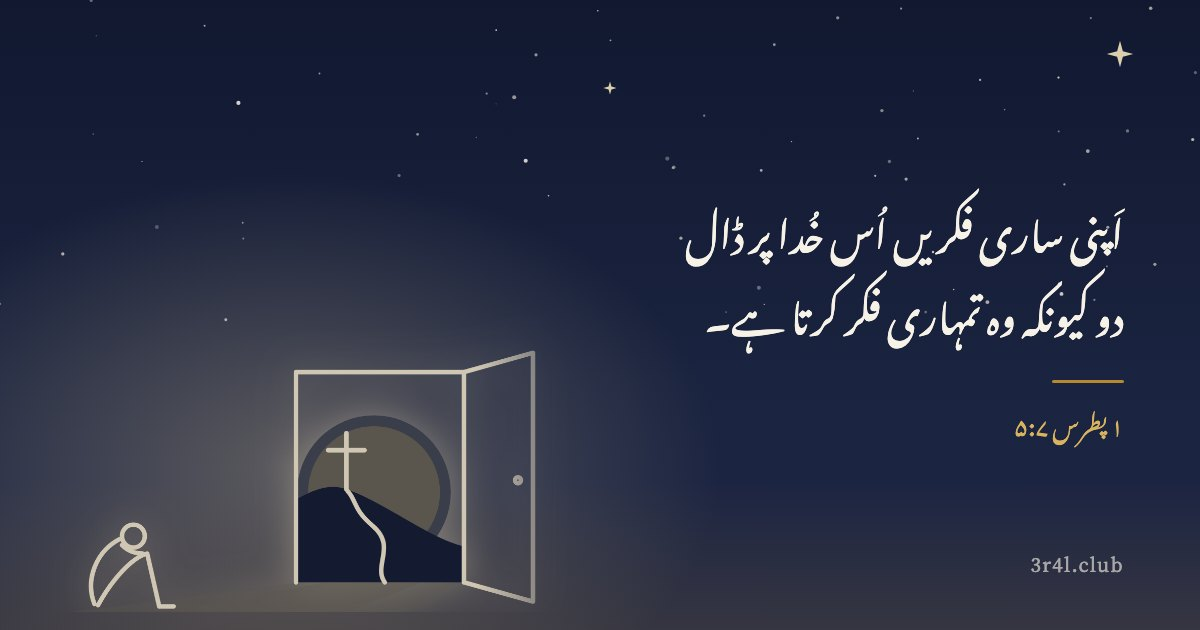
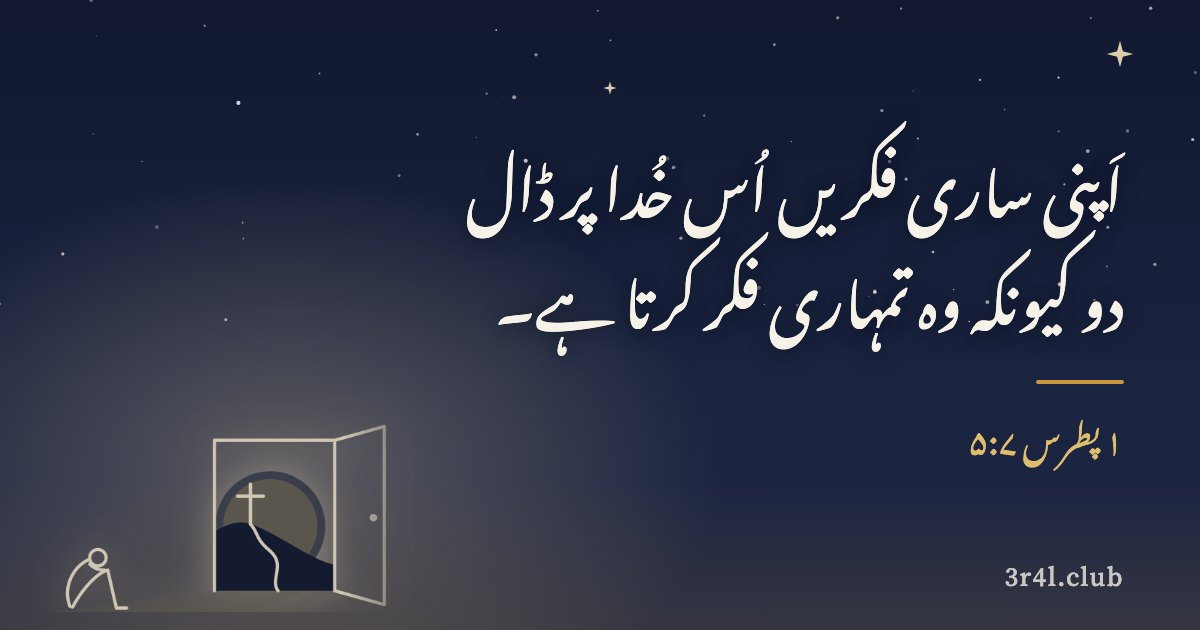
Link pictures readable on a phone: the home carries "A Blessing from the Lord's Prayer" alone; every other picture one short line of its verse in type sized to fill the picture (a phone shows it at about a third); /story/ (Psalm 107:2) and /testimony/ (Psalm 66:16) get their own in all three tongues
Claude-Session: https://claude.ai/code/session_013opyYkjdNn4uvxvqHhujKk

diff --git a/docs/ur/story/index.html b/docs/ur/story/index.html
@@ -7,7 +7,7 @@
 <meta name="description" content="یہ کیسے شروع ہوا">
 <meta property="og:title" content="یہ کیسے شروع ہوا">
 <meta property="og:description" content="یہ کیسے شروع ہوا">
-<meta property="og:image" content="https://3r4l.club/share/home-ur.jpg">
+<meta property="og:image" content="https://3r4l.club/share/story-ur.jpg">
 <meta property="og:image:width" content="1200">
 <meta property="og:image:height" content="630">
 <meta name="twitter:card" content="summary_large_image">

diff --git a/docs/tl/story/index.html b/docs/tl/story/index.html
@@ -7,7 +7,7 @@
 <meta name="description" content="Paano ito nagsimula">
 <meta property="og:title" content="Paano ito nagsimula">
 <meta property="og:description" content="Paano ito nagsimula">
-<meta property="og:image" content="https://3r4l.club/share/home-tl.jpg">
+<meta property="og:image" content="https://3r4l.club/share/story-tl.jpg">
 <meta property="og:image:width" content="1200">
 <meta property="og:image:height" content="630">
 <meta name="twitter:card" content="summary_large_image">

diff --git a/docs/ur/testimony/index.html b/docs/ur/testimony/index.html
@@ -7,7 +7,7 @@
 <meta name="description" content="کیا ہوا">
 <meta property="og:title" content="کیا ہوا">
 <meta property="og:description" content="کیا ہوا">
-<meta property="og:image" content="https://3r4l.club/share/home-ur.jpg">
+<meta property="og:image" content="https://3r4l.club/share/testimony-ur.jpg">
 <meta property="og:image:width" content="1200">
 <meta property="og:image:height" content="630">
 <meta name="twitter:card" content="summary_large_image">

diff --git a/docs/en/story/index.html b/docs/en/story/index.html
@@ -7,7 +7,7 @@
 <meta name="description" content="How this started">
 <meta property="og:title" content="How this started">
 <meta property="og:description" content="How this started">
-<meta property="og:image" content="https://3r4l.club/share/home.jpg">
+<meta property="og:image" content="https://3r4l.club/share/story.jpg">
 <meta property="og:image:width" content="1200">
 <meta property="og:image:height" content="630">
 <meta name="twitter:card" content="summary_large_image">

diff --git a/docs/story/index.html b/docs/story/index.html
@@ -7,7 +7,7 @@
 <meta name="description" content="How this started">
 <meta property="og:title" content="How this started">
 <meta property="og:description" content="How this started">
-<meta property="og:image" content="https://3r4l.club/share/home.jpg">
+<meta property="og:image" content="https://3r4l.club/share/story.jpg">
 <meta property="og:image:width" content="1200">
 <meta property="og:image:height" content="630">
 <meta name="twitter:card" content="summary_large_image">

diff --git a/docs/tl/testimony/index.html b/docs/tl/testimony/index.html
@@ -7,7 +7,7 @@
 <meta name="description" content="Ang nangyari">
 <meta property="og:title" content="Ang nangyari">
 <meta property="og:description" content="Ang nangyari">
-<meta property="og:image" content="https://3r4l.club/share/home-tl.jpg">
+<meta property="og:image" content="https://3r4l.club/share/testimony-tl.jpg">
 <meta property="og:image:width" content="1200">
 <meta property="og:image:height" content="630">
 <meta name="twitter:card" content="summary_large_image">

diff --git a/docs/en/testimony/index.html b/docs/en/testimony/index.html
@@ -7,7 +7,7 @@
 <meta name="description" content="What happened">
 <meta property="og:title" content="What happened">
 <meta property="og:description" content="What happened">
-<meta property="og:image" content="https://3r4l.club/share/home.jpg">
+<meta property="og:image" content="https://3r4l.club/share/testimony.jpg">
 <meta property="og:image:width" content="1200">
 <meta property="og:image:height" content="630">
 <meta name="twitter:card" content="summary_large_image">

diff --git a/docs/testimony/index.html b/docs/testimony/index.html
@@ -7,7 +7,7 @@
 <meta name="description" content="What happened">
 <meta property="og:title" content="What happened">
 <meta property="og:description" content="What happened">
-<meta property="og:image" content="https://3r4l.club/share/home.jpg">
+<meta property="og:image" content="https://3r4l.club/share/testimony.jpg">
 <meta property="og:image:width" content="1200">
 <meta property="og:image:height" content="630">
 <meta name="twitter:card" content="summary_large_image">
